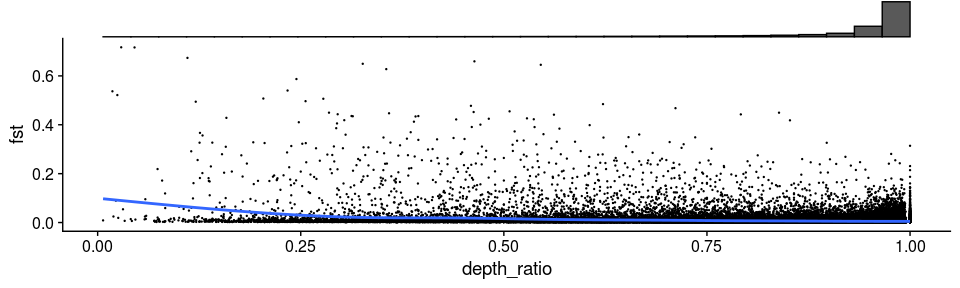
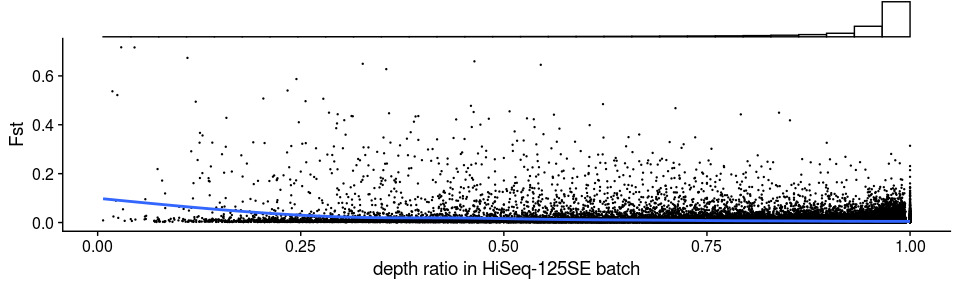
updated figure 4B

Changed region(s): [[0.375, 0.9062, 0.6875, 0.9688], [0.8438, 0.0, 0.9688, 0.125], [0.0, 0.4062, 0.0312, 0.5312]]

diff --git a/markdown/fst.md b/markdown/fst.md
@@ -115,10 +115,11 @@ depth <- inner_join(anymapq_depth, mapq20_depth) %>%
 p <- maf_joined %>%
   left_join(depth) %>%
   ggplot(aes(x=depth_ratio, y=fst)) +
+  labs(x="depth ratio in HiSeq-125SE batch", y="Fst") +
   geom_point(size=0.2) +
-  geom_smooth() +
+  geom_smooth(se=T) +
   theme_cowplot()
-ggExtra::ggMarginal(p, type = "histogram", size=5, margins="x")
+ggExtra::ggMarginal(p, type = "histogram", size=5, margins="x", fill="white")
 ```
 
 ![](fst_files/figure-gfm/unnamed-chunk-5-1.png)<!-- -->
@@ -158,30 +159,6 @@ maf_joined %>%
     ##   mean_fst
     ##      <dbl>
     ## 1  0.00456
-
-``` r
-depth_filtered_maf <- maf_joined #%>%
-  #left_join(depth) %>%
-  #filter(depth_ratio > 0.8)
-
-bind_rows((filter(depth_filtered_maf, pe_maf<0.01 | pe_maf>0.99) %>% filter(se_maf>0.1 & se_maf<0.9) %>% transmute(major=major, minor=minor, batch = "HiSeq, more degraded")),
-          (filter(depth_filtered_maf, se_maf<0.01 | se_maf>0.99) %>% filter(pe_maf>0.1 & pe_maf<0.9) %>% transmute(major=major, minor=minor, batch = "NextSeq, less degraded"))) %>%
-  mutate(base_substitution = str_c(major, "-to-", minor)) %>%
-  group_by(base_substitution, batch) %>% 
-  count() %>% 
-  ungroup() %>% 
-  group_by(batch) %>%
-  mutate(frequency = n / sum(n)) %>%
-  ungroup() %>%
-  ggplot(aes(x=base_substitution, y=frequency, color=batch, group=batch)) +
-  geom_line() + 
-  geom_point() +
-  scale_color_viridis_d(end=0.75) +
-  theme_bw() +
-  theme(legend.position = "top")
-```
-
-![](fst_files/figure-gfm/unnamed-chunk-7-1.png)<!-- -->
 
 #### Spot check some outlier SNPs
 
